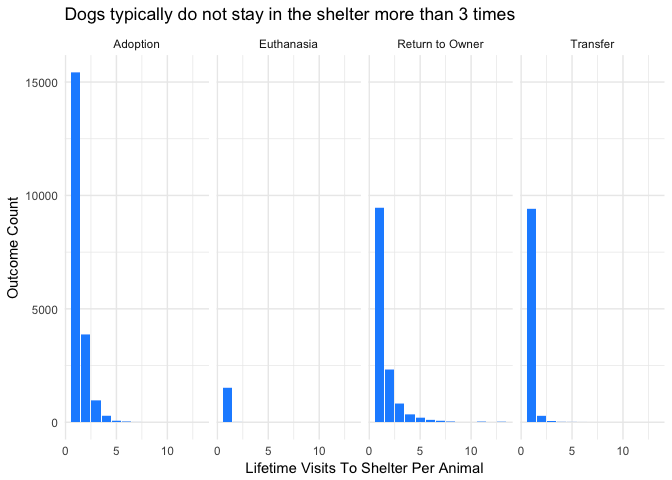
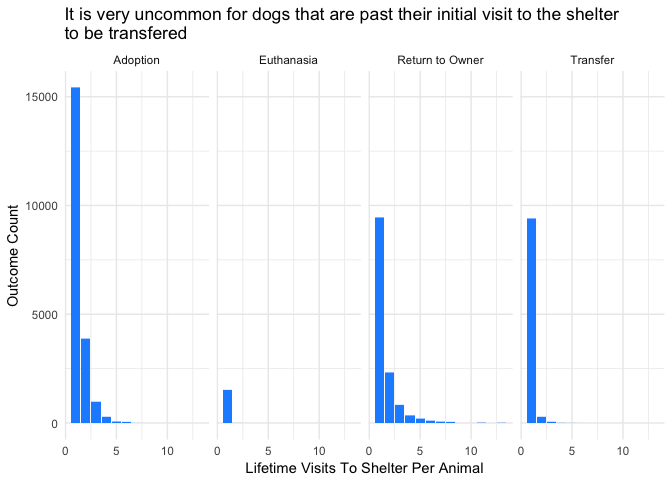
EDA updates

diff --git a/Project_Cleaned.md b/Project_Cleaned.md
@@ -151,9 +151,11 @@ It appears that there are four primary outcomes: Adoption, Transfer, Return to O
 
 ![](Project_Cleaned_files/figure-markdown_github/distributional_exploration1-1.png)
 
-In the initial dataset, almost all the animals have only visited the shelter once. A small portion of the animals have been to the shelter twice and there are almost no animals that have been there three or more times.
+In the initial dataset, almost all the animals have only visited the shelter once. A small portion of the animals have been to the shelter twice and there are almost no animals that have been there three or more times. For the purposes of analysis, I will probably treat this variable as a factor and group everything together greater than or more than three shelter visits.
 
 ![](Project_Cleaned_files/figure-markdown_github/distributional_exploration2-1.png)
+
+Looking at how the outcomes vary by number of visits a dog has made to the shelter, it appears that the transfer outcome is very uncommon for dogs that are not visiting the shelter for the first time. By definition, there are no dogs that revisit the shelter after euthanasia.
 
 ![](Project_Cleaned_files/figure-markdown_github/distributional_exploration3-1.png)
 
@@ -173,7 +175,45 @@ The time spent in shelter for each outcome type shows that the euthanasia and re
 
 ![](Project_Cleaned_files/figure-markdown_github/distributional_exploration7-1.png)
 
-#### EDA Process - Modified Dataset Exploration
+Another thing I was curious about was whether or not there was a seasonal component to each of the shelter outcomes. Looking at day of the week, there is a marked difference between the amount adoptions that occur during the week and during the weekend. Adoptions are much more likely to occur on weekends. On the other hand, transfer outcomes are much less likely to occur on the weekend, while euthanasia shows a minor decrease of occurrence on weekends.
+
+``` r
+data_dog %>%
+  filter((outcome_type == "Adoption" | outcome_type == "Transfer" | outcome_type == "Return to Owner" | outcome_type == "Euthanasia")) %>%
+  ggplot(aes(x = wday(outcome_datetime, label = TRUE, week_start = getOption("lubridate.week.start", 1)))) +
+  geom_bar(stat = "count", fill = "dodgerblue") +
+  facet_wrap(~ outcome_type, nrow = 2) +
+  labs(x = "Lifetime Visits To Shelter Per Animal", y = "Outcome Count", title = "Adoption is much more likely to occur on the weekends than other\ndays of the week") +
+  theme_minimal() +
+  coord_flip()
+```
+
+![](Project_Cleaned_files/figure-markdown_github/unnamed-chunk-2-1.png)
+
+Throughout the year, it appears there is also a seasonal component to adoptions, as the winter months show greater amounts of adopted dogs. The return to owner outcome is similarly more likely in the winter months, though this appears to be less of a pronounced effect. There does not seem to be any discernible pattern with the euthanasia outcome throughout the year, while the transfer outcome shows a slight uptick in November and October.
+
+``` r
+data_dog %>%
+  filter((outcome_type == "Adoption" | outcome_type == "Transfer" | outcome_type == "Return to Owner" | outcome_type == "Euthanasia")) %>%
+  ggplot(aes(x = fct_rev(month(outcome_datetime, label = TRUE)))) +
+  geom_bar(stat = "count", fill = "dodgerblue") +
+  facet_wrap(~ outcome_type, nrow = 2) +
+  labs(x = "Lifetime Visits To Shelter Per Animal", y = "Outcome Count", title = "Adoption more likely to occur during the winter months") +
+  theme_minimal() +
+  coord_flip()
+```
+
+![](Project_Cleaned_files/figure-markdown_github/unnamed-chunk-3-1.png)
+
+##### Dataset Cleaning
+
+Before proceeding further, there are several data cleaning tasks to tackle:
+
+1.  The number of possible dog breeds is quite large from a computational efficiency standpoint, so to reduce this I am going to relabel a dogs breed as it's AKC Breed Group. This will reduce the number possible values from over 1000 to 8 or 9 possible values.
+2.  The number of dog colors is also very large, and as stated above I'm going to simplify this to be represented by a binary variable indicating whether the dog is black or not.
+3.  Many dogs have multiple values listed for color and breed. Color is going to be reduced to the binary of "is black", but for breed I am going create multiple features for breed type. This will be done instead of creating distinct values for each combination of breed types to keep the number of possible values at a manageable scale.
+
+After this cleaning, I now want to examine how the breed groupings and the is black binary are related to the different outcome types.
 
 ------------------------------------------------------------------------
 
@@ -299,47 +339,47 @@ After optimizing our KNN modeling, we developed a few Random Forest models in an
     ## 
     ##                  Reference
     ## Prediction        Adoption Euthanasia Return to Owner Transfer
-    ##   Adoption            5974         96             365     1020
-    ##   Euthanasia             0        208               2        3
-    ##   Return to Owner       82         53            3523      108
-    ##   Transfer             118         93              91     1778
+    ##   Adoption            5972        104             378      976
+    ##   Euthanasia             0        212               3        7
+    ##   Return to Owner       76         58            3501       93
+    ##   Transfer             126         76              99     1833
     ## 
     ## Overall Statistics
     ##                                           
-    ##                Accuracy : 0.8497          
-    ##                  95% CI : (0.8436, 0.8557)
+    ##                Accuracy : 0.8523          
+    ##                  95% CI : (0.8462, 0.8582)
     ##     No Information Rate : 0.4569          
     ##     P-Value [Acc > NIR] : < 2.2e-16       
     ##                                           
-    ##                   Kappa : 0.7623          
+    ##                   Kappa : 0.7667          
     ##  Mcnemar's Test P-Value : < 2.2e-16       
     ## 
     ## Statistics by Class:
     ## 
     ##                      Class: Adoption Class: Euthanasia
-    ## Sensitivity                   0.9676           0.46222
-    ## Specificity                   0.7982           0.99962
-    ## Pos Pred Value                0.8013           0.97653
-    ## Neg Pred Value                0.9670           0.98181
-    ## Precision                     0.8013           0.97653
-    ## Recall                        0.9676           0.46222
-    ## F1                            0.8767           0.62745
+    ## Sensitivity                   0.9673           0.47111
+    ## Specificity                   0.8014           0.99923
+    ## Pos Pred Value                0.8038           0.95495
+    ## Neg Pred Value                0.9668           0.98209
+    ## Precision                     0.8038           0.95495
+    ## Recall                        0.9673           0.47111
+    ## F1                            0.8780           0.63095
     ## Prevalence                    0.4569           0.03330
-    ## Detection Rate                0.4421           0.01539
-    ## Detection Prevalence          0.5517           0.01576
-    ## Balanced Accuracy             0.8829           0.73092
+    ## Detection Rate                0.4419           0.01569
+    ## Detection Prevalence          0.5498           0.01643
+    ## Balanced Accuracy             0.8843           0.73517
     ##                      Class: Return to Owner Class: Transfer
-    ## Sensitivity                          0.8850          0.6112
-    ## Specificity                          0.9745          0.9715
-    ## Pos Pred Value                       0.9355          0.8548
-    ## Neg Pred Value                       0.9530          0.9011
-    ## Precision                            0.9355          0.8548
-    ## Recall                               0.8850          0.6112
-    ## F1                                   0.9095          0.7128
+    ## Sensitivity                          0.8794          0.6301
+    ## Specificity                          0.9762          0.9716
+    ## Pos Pred Value                       0.9391          0.8590
+    ## Neg Pred Value                       0.9510          0.9054
+    ## Precision                            0.9391          0.8590
+    ## Recall                               0.8794          0.6301
+    ## F1                                   0.9083          0.7269
     ## Prevalence                           0.2946          0.2153
-    ## Detection Rate                       0.2607          0.1316
-    ## Detection Prevalence                 0.2787          0.1539
-    ## Balanced Accuracy                    0.9297          0.7914
+    ## Detection Rate                       0.2591          0.1356
+    ## Detection Prevalence                 0.2759          0.1579
+    ## Balanced Accuracy                    0.9278          0.8009
 
 #### Variable Importance
 
